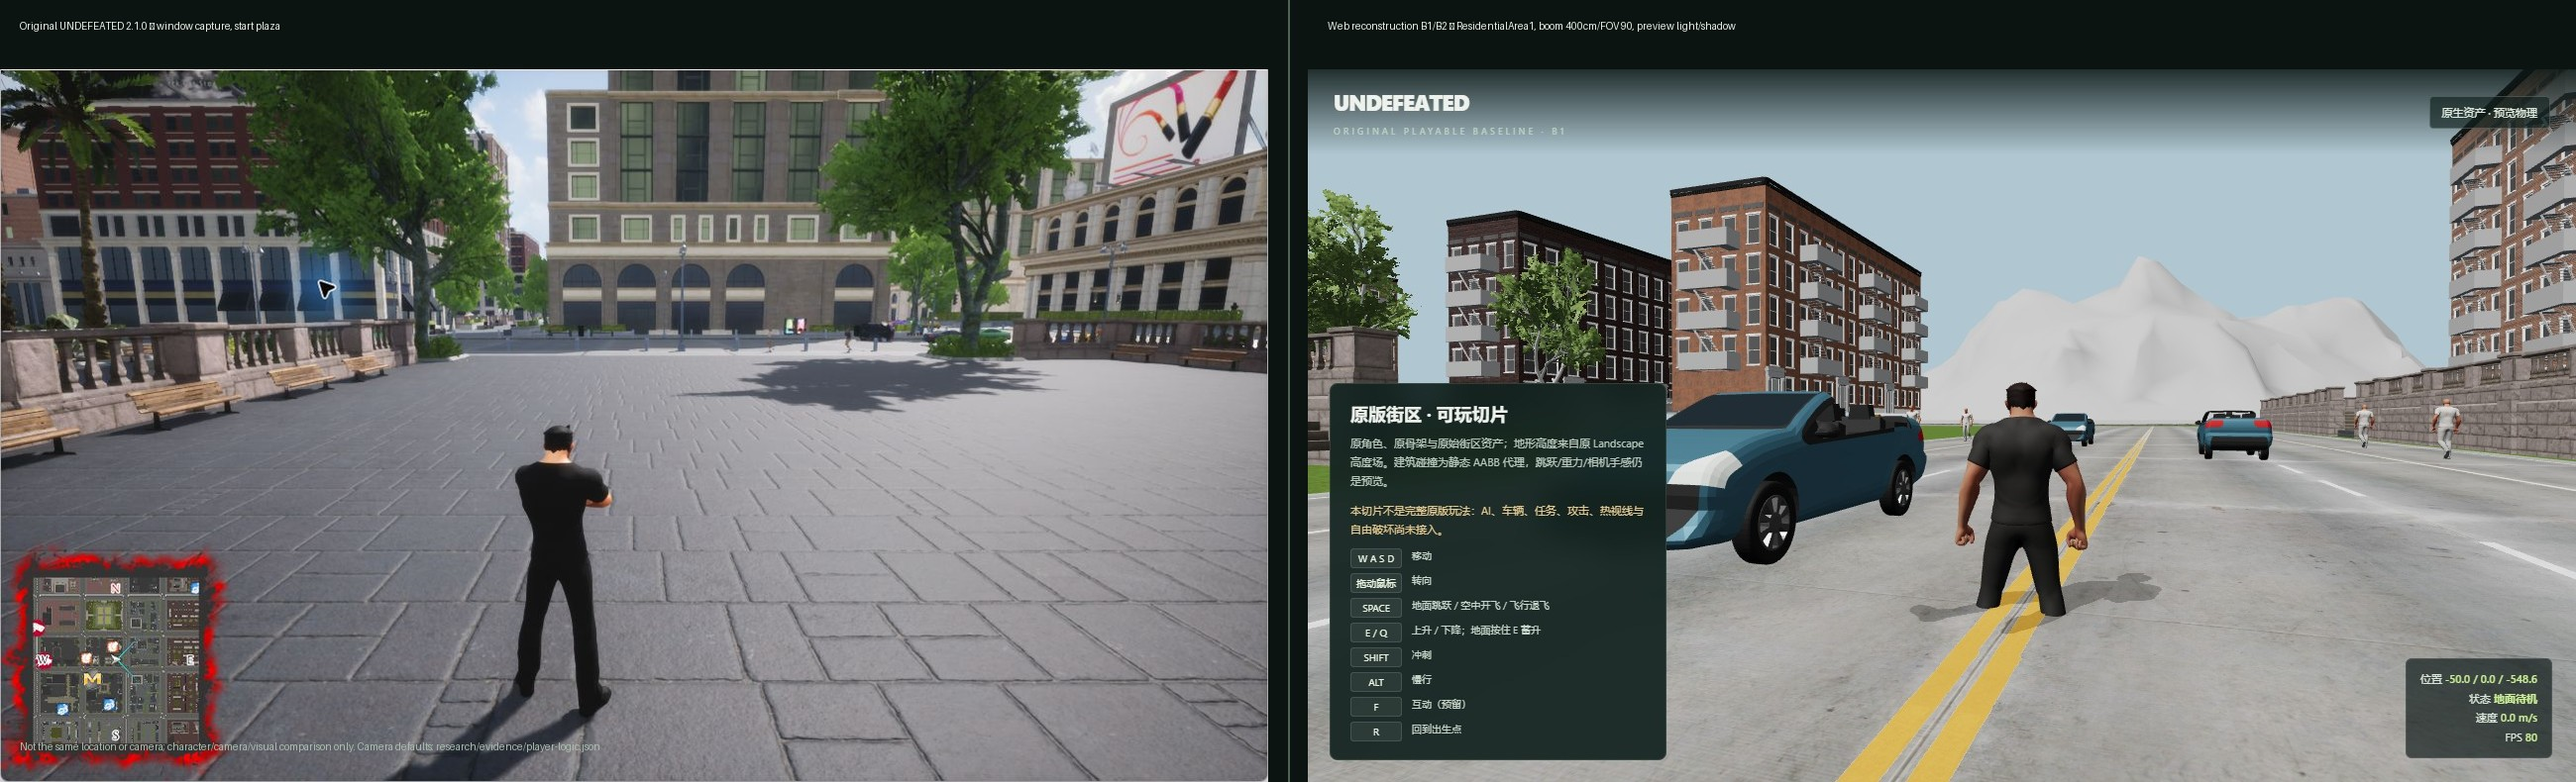
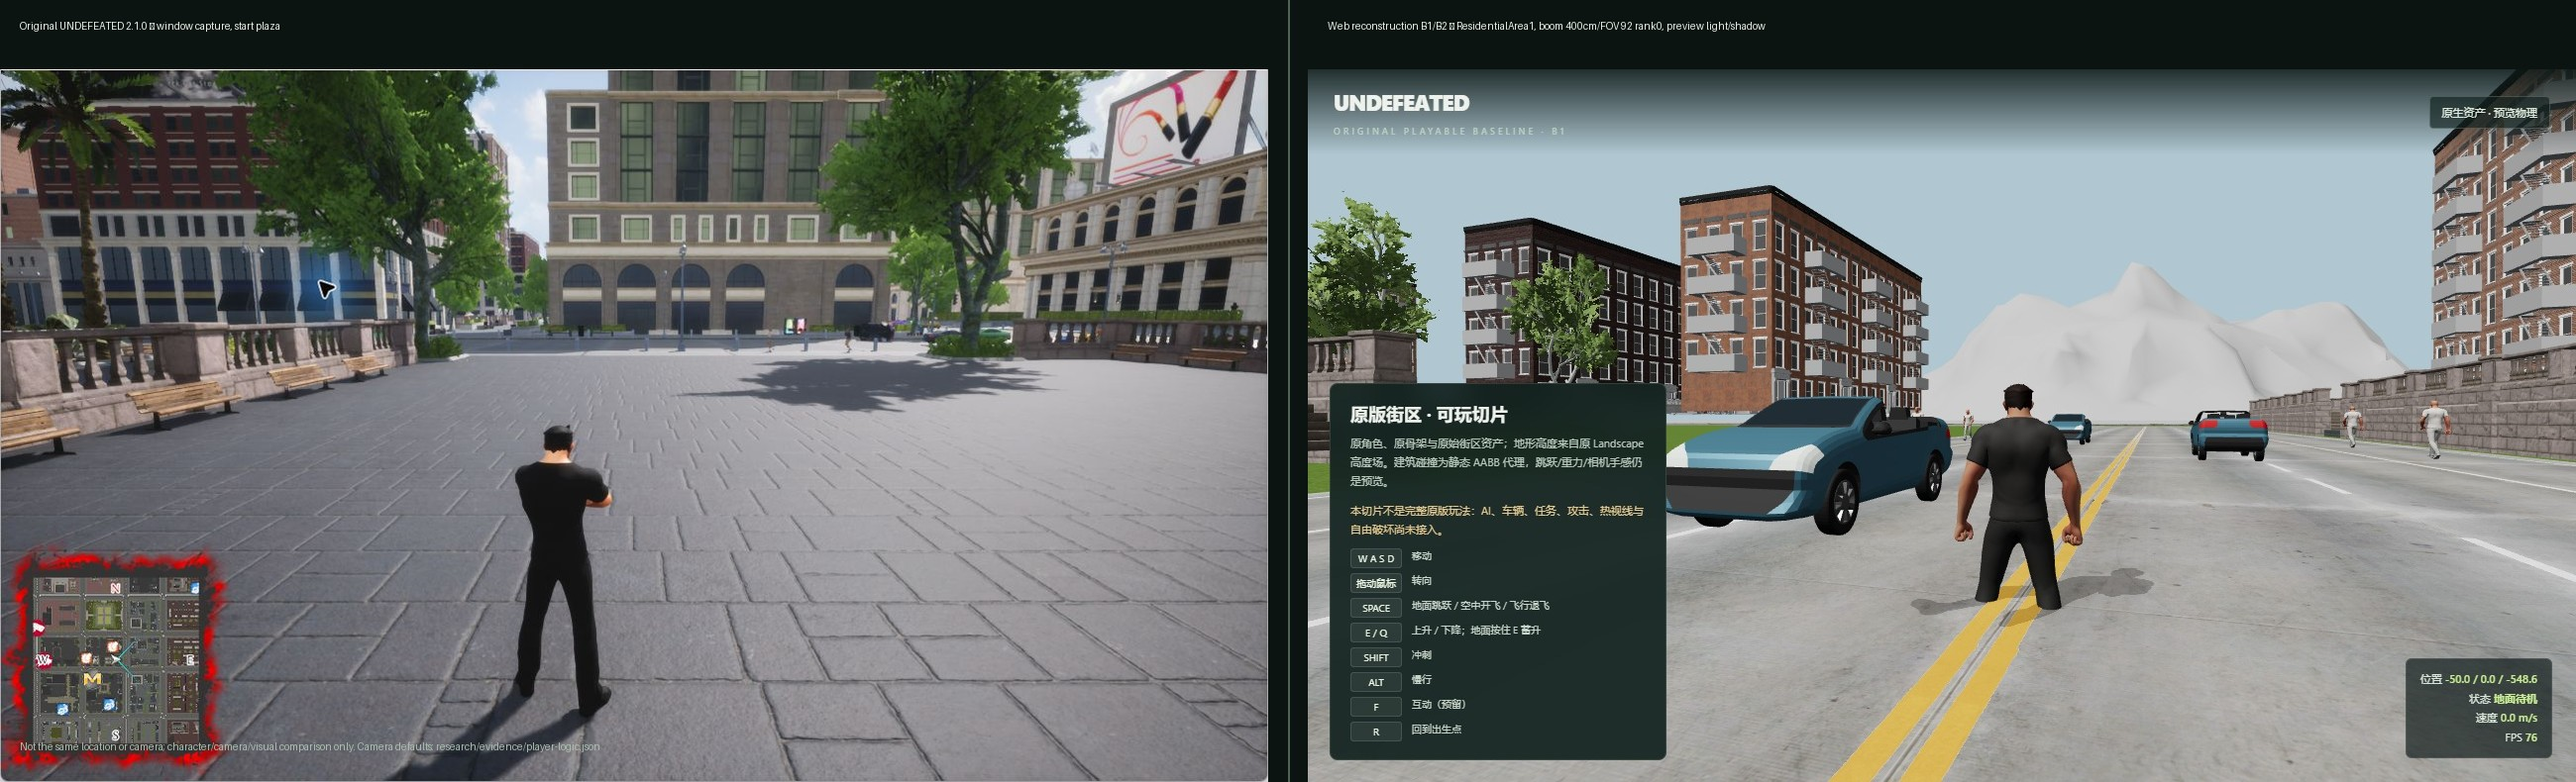
fix: use HeroRank 0 FOV 92 for the third-person camera
HeroComponent switches Camera.FieldOfView by HeroRank: 0..6 map to 92,94,96,98,100,100,100 at interpolation speed 4. The 90-degree FInterpTo(...2) branch has a different, not fully resolved condition. The playable preview starts at rank 0, so apply a 92-degree horizontal FOV (converted to Babylon vertical FOV) and update the camera contract, comparison image and screenshots. B1 browser probe passes; 8 controller tests, typecheck and build pass.

diff --git a/src/play-original.ts b/src/play-original.ts
@@ -45,7 +45,7 @@ const viewer = new OriginalWorld(canvas);
 const input = new Input(canvas);
 // Original PlayerBP CameraBoom_GEN_VARIABLE: TargetArmLength=400 cm,
 // SocketOffset=(0,50,90) cm, boom RelativeLocation Z=70 cm.
-const CAMERA = { armLength: 4.0, attackArmLength: 6.5, armSpeed: 2, boomHeight: 0.7, socketRight: 0.5, socketUp: 0.9, lagSpeed: 15, fov: 90 };
+const CAMERA = { armLength: 4.0, attackArmLength: 6.5, armSpeed: 2, boomHeight: 0.7, socketRight: 0.5, socketUp: 0.9, lagSpeed: 15, fov: 92 };
 input.pitch = 0.02;
 const paused = el('paused');
 const requestedDistrict = new URLSearchParams(location.search).get('district') ?? 'ResidentialArea1';
@@ -184,8 +184,8 @@ try {
   await combat.load();
   viewer.camera.detachControl();
   viewer.camera.minZ = 0.12;
-  // HeroComponent interpolates Camera.FieldOfView to 90; UE's value is
-  // horizontal, so convert to Babylon's vertical FOV at the current aspect.
+  // HeroComponent switches Camera.FieldOfView by HeroRank:
+  // 0..6 -> 92,94,96,98,100,100,100. The preview starts at rank 0.
   const applyFov = () => {
     const aspect = viewer.engine.getRenderWidth() / Math.max(1, viewer.engine.getRenderHeight());
     viewer.camera.fov = 2 * Math.atan(Math.tan((CAMERA.fov * Math.PI) / 360) / aspect);

diff --git a/docs/playable-baseline.md b/docs/playable-baseline.md
@@ -10,7 +10,7 @@
 - 角色：`/assets/character/hero.gltf`，原身体/头发/墨镜三套网格与骨架，18 段原动画；保留原骨架与比例。
 - 地面：144 块原 Landscape 高度场逐点采样（`TerrainHeightfield`），不是旧的单平面地面。
 - 碰撞：从恢复后的静态对象 TRS 与 asset bounds 生成 1,432 个 AABB 代理（2,171 个对象中跳过 731 个过小、8 个过大）；这是可玩性代理，不是原 cooked PhysX。相机偏移会对附近 AABB 做收缩，避免穿墙。所有存活预览 actor（含市民、车辆、报刊箱）的 `solidBoxes` 每帧加入玩家动态碰撞。
-- 相机：第三人称按原 `PlayerBP` `CameraBoom` 的 `TargetArmLength=400 cm`、`SocketOffset=(0,50,90) cm`、`RelativeLocation Z=70 cm` 校准，并把 `Camera.FieldOfView` 设为原 90° 水平视场；使用原 `CameraLagSpeed/RotationLagSpeed=15` 做相机位置/朝向平滑。攻击时目标臂长按 HeroComponent AST 的 650 cm 插值（`CameraInterpSpeed=2`）。HeroComponent 的 Far/Zoom 状态切换、弹簧回弹和碰撞后处理仍是近似。
+- 相机：第三人称按原 `PlayerBP` `CameraBoom` 的 `TargetArmLength=400 cm`、`SocketOffset=(0,50,90) cm`、`RelativeLocation Z=70 cm` 校准，并按 HeroRank 0 的 `Camera.FieldOfView=92°` 水平视场换算（rank 表 92/94/96/98/100/100/100）；使用原 `CameraLagSpeed/RotationLagSpeed=15` 做相机位置/朝向平滑。攻击时目标臂长按 HeroComponent AST 的 650 cm 插值（`CameraInterpSpeed=2`）。HeroComponent 的 Far/Zoom 状态切换、弹簧回弹和碰撞后处理仍是近似。
 - 输入：Space 地面跳跃 / 空中开飞 / 飞行退飞；E/Q 升降；地面按住 E 约 1 秒自动开飞；Shift 冲刺；Alt 慢行；F 预留互动；R 为调试回出生点。按 P07，Shift 只有与移动输入同时存在才进入冲刺；松开 Shift/停止移动即解除，Alt 慢行取消冲刺。按 P08，冲刺速度跌到 850 cm/s（步行）/2000 cm/s（飞行）以下会重置，且保持 Shift 不会立即重新触发。
 - 动画：`Hero_Idle`、`A_ThirdPersonRun`、`Hero_IdleFlying`、`Hero_FlyFastSprint` 随状态切换；B1 实测前三条。
 - 出生点：旧原型街区局部坐标 `(50, 1.37)` 加上 city manifest `originUE [-10000,-55000,0]` cm，得到恢复世界 `(-50.0, -548.63)`，位于 ResidentialArea1 的实际公寓街区；仍不是原 `PlayerStart`。MainLevel `BP_RespawnAndSpawnPoint` 的 x/z 作为备用。

diff --git a/docs/runtime-comparison.md b/docs/runtime-comparison.md
@@ -16,7 +16,7 @@
 |---|---|---|
 | 角色外观 | 黑色短袖/长裤，体型、发型轮廓与当前 Web 角色一致 | 同一原 `hero.gltf`，黑色服装与比例基本一致 |
 | 角色阴影 | 角色在铺装上有清晰动态阴影 | 已加入预览角色阴影（跟随预览太阳方向）；级联/软硬/接缝与原版不同 |
-| 相机 | 第三人称，角色约占画面高度 1/3，距离更近、略高 | 已按原 `CameraBoom` 400 cm/SocketOffset(0,50,90)/boom Z70 cm 校准，FOV 90 水平视场，CameraLagSpeed/RotationLagSpeed=15；攻击时插值到 650 cm。Far/Zoom 切换、弹簧回弹和碰撞控制仍不同 |
+| 相机 | 第三人称，角色约占画面高度 1/3，距离更近、略高 | 已按原 `CameraBoom` 400 cm/SocketOffset(0,50,90)/boom Z70 cm 校准，FOV 按 HeroRank 0 的 92° 水平视场，CameraLagSpeed/RotationLagSpeed=15；攻击时插值到 650 cm。Far/Zoom 切换、弹簧回弹和碰撞控制仍不同 |
 | 光照/雾 | 原版光照、树影、环境雾与高光 | Babylon 预览半球/方向光；无原雾/后处理 |
 | 世界 | 起点广场：长椅、树、铺装、成排建筑立面 | ResidentialArea1 街道：砖砌公寓、车道、预览行人和车辆 |
 | 远景 | 城市立面/天空，无明显白色山体 | 白色未恢复材质的背景山体非常显眼 |

diff --git a/research/world-recovery/hero-camera-contract.zh-CN.md b/research/world-recovery/hero-camera-contract.zh-CN.md
@@ -15,14 +15,14 @@ DefaultArmLength   = CameraBoom.TargetArmLength
 
 相机更新段落还包含：
 
-- `Camera.FieldOfView` 用 `FInterpTo(..., 90, dt, 2)`，即 90° 视场；
+- `Camera.FieldOfView` 按 **HeroRank** 插值：rank 0..6 → `92,94,96,98,100,100,100`，插值速度 4；另有一个 90° 的 `FInterpTo(..., 90, dt, 2)` 分支，但其外层条件尚未完全闭合；
 - `Temp_float_Variable_123=400`、`Temp_float_Variable_124=650`，由 `IsAttackMoving` 参与选择目标臂长；
 - `FarArmLength=800 cm`，以及 `FarCameraInterpSpeed` 的动态 1/4/8/16 分支；
 - `CameraLagSpeed=15`、`CameraRotationLagSpeed=15`。
 
 ## 当前 Web 实现
 
-- 普通第三人称：臂长 400 cm、SocketOffset(0,50,90)、boom Z70、FOV 90° 水平、lag 15；
+- 普通第三人称：臂长 400 cm、SocketOffset(0,50,90)、boom Z70、FOV 按 rank 0 的 92° 水平视场、lag 15；
 - 攻击时目标臂长 **650 cm**，用 `CameraInterpSpeed=2` 插值；
 - 相机碰撞 AABB 收缩。
 
